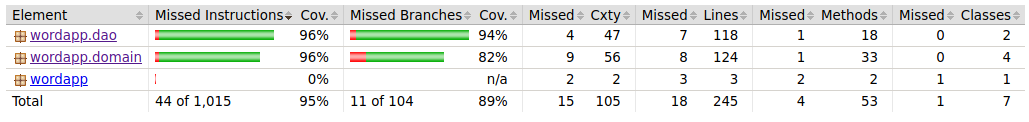
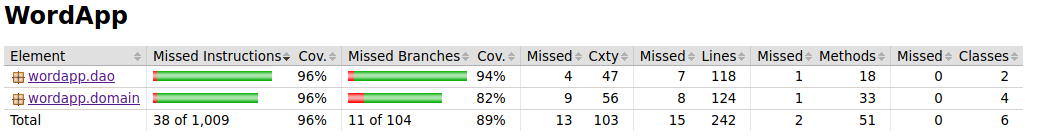
updated testaus.md

diff --git a/dokumentointi/testaus.md b/dokumentointi/testaus.md
@@ -12,7 +12,7 @@ Kaikkia domain -luokkia testataan integraatiotesteillä. Lisäksi dao -luokkia F
 
 ### Testauskattavuus
 
-Testien rivikattavuus on 95% ja haarautumiskattavuus 89%.
+Testien rivikattavuus on 96% ja haarautumiskattavuus 89%.
 
 <img src="https://raw.githubusercontent.com/jobpurho/ot-harjoitustyo/master/dokumentointi/kuvat/testauskattavuus.png">
 
